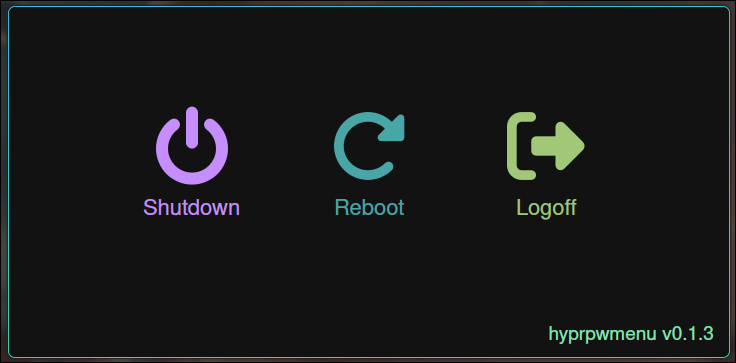
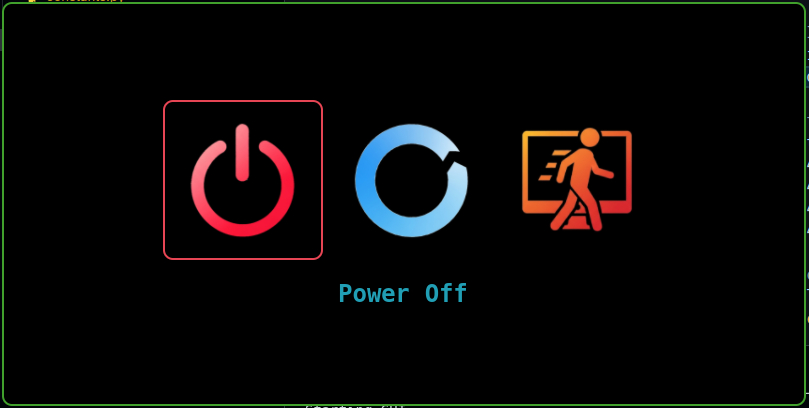
Update README and versioning; switch from PyQt6 to Gtk4, enhance configuration structure, and remove unused dependencies

diff --git a/src/hyprpwmenu/constants.py b/src/hyprpwmenu/constants.py
@@ -12,16 +12,13 @@ Constants:
     DEFAULT_STYLE_FILE (str): Default path for CSS style file
     SPACES_DEFAULT (int): Default spacing value for console output formatting
 
-Example:
-    >>> from hyprpwmenu.constants import APP_NAME, APP_VERSION
-    >>> print(f"{APP_NAME} v{APP_VERSION}")
-    hyprpwmenu v0.2.0
+
 """
 
 import os
 
 #: Current version of the HyprPwMenu application
-APP_VERSION = "0.2.0"
+APP_VERSION = "0.2.4"
 
 #: Application name used for configuration directories and identification
 APP_NAME = "hyprpwmenu"

diff --git a/README.md b/README.md
@@ -20,20 +20,9 @@ A modern and customizable power menu for [Hyprland](https://hyprland.org/https:/
 
 ## 📖 Overview
 
-**hyprpwmenu** provides a sleek graphical interface for system operations (_shutdown, reboot, and logoff_) in [Hyprland](https://hyprland.org/https:/) Wayland compositor. Built with Python and PyQt6, it offers extensive customization through configuration files and CSS styling.
+**hyprpwmenu** provides a sleek graphical interface for system operations (_shutdown, reboot, and logoff_) in [Hyprland](https://hyprland.org/https:/) Wayland compositor. Built with Python and Gtk4, it offers extensive customization through configuration files and CSS styling.
 
 ## Installation
-
-### Important
-
-Before continuing, write these rules in your Hyprland configuration file `hyprland.conf`.
-
-```ini
-# hyprpwmenu
-windowrulev2 = float,class:hyprpwmenu # necessary
-#windowrulev2 = fullscreen,class:hyprpwmenu # only if you want fullscreen
-windowrulev2 = size 720 250,class:hyprpwmenu
-```
 
 ### Install with pip
 
@@ -54,78 +43,141 @@ yay -S  hyprpwmenu
 ## 🛠 Usage
 
 ```bash
-hyprpwmenu [OPTIONS]
+$ hyprpwmenu
 ```
 
-### Command Line Options
-
-The following command-line options are available:
-
-| Option           | Argument | Description                                  | Default Value                      |
-| ---------------- | -------- | -------------------------------------------- | ---------------------------------- |
-| `-c`, `--config` | `FILE`   | Specifies the path to the`config.yaml` file. | `~/.config/hyprpwmenu/config.yaml` |
-| `-s`, `--style`  | `FILE`   | Specifies the path to the`style.css` file.   | `~/.config/hyprpwmenu/style.css`   |
-| `-h`, `--help`   |          | Show the help message and exit.              | N/A                                |
-
-If the specified configuration or style files don't exist at the provided paths (or the default paths), hyprpwmenu will attempt to create default versions.
+If the configuration or style files don't exist at the XDG_CONFIG_PATH (**/home/your_username/.config/hyprpwmenu**), **hyprpwmenu** will attempt to create default versions.
 
 ## ⚙ Configuration (`config.yaml`)
 
-**hyprpwmenu** uses a YAML configuration file (typically `~/.config/hyprpwmenu/config.yaml`) to define its behavior and the specifics of the power actions (shutdown, reboot and logoff).
+The behavior and appearance of hyprpwmenu is controlled via a YAML configuration file (default: `~/.config/hyprpwmenu/config.yaml`).
+
+### Configuration Structure
+
+The configuration file defines a list of buttons with their properties:
 
 ```yaml
-# This file is used to configure the hyprpwmenu
-# It is a YAML file, so make sure to follow the syntax rules
-# You can use comments in YAML files by starting a line with '#'
-
-# Shutdown icon and command
-# The icon is unicode for a Font Awesome icon,
-# you can find the list of icons here: https://fontawesome.com/icons/
-shutdown:
-  icon: "\uf011"
-  command: "poweroff" # Command to execute when the shutdown icon is clicked
-
-# Reboot icon and command
-reboot:
-  icon: "\uf2f9"
-  command: "reboot" # Command to execute when the reboot icon is clicked
-
-# Logoff icon and command
-logoff:
-  icon: "\uf2f5"
-  command: "hyprctl dispatch exit" # Command to execute when the logout icon is clicked
+buttons:
+  - icon_path: "/path/to/icon.png" # Path to PNG icon file
+    id: "buttonId" # CSS identifier for styling
+    hint: "Tooltip text" # Text shown on hover
+    command: "system_command" # Command executed when clicked
 ```
 
-Please refer to the default generated `config.yaml` or the application's source code for the definitive structure and available options.
+### Button Properties
+
+Each button supports the following properties:
+
+- **`icon_path`** (string): Absolute path to a PNG image file used as the button icon
+- **`id`** (string): Unique identifier used for CSS styling and element identification
+- **`hint`** (string): Text displayed as tooltip when user hovers over the button
+- **`command`** (string): Shell command that will be executed when the button is clicked
+
+### Default Configuration
+
+The default configuration includes three standard power menu actions:
+
+- **Power Off**: Executes `poweroff` command
+- **Restart**: Executes `reboot` command
+- **Logout**: Executes `hyprctl dispatch exit` for Hyprland session exit
+
+### Custom Commands
+
+You can customize the commands to suit your system setup. For example:
+
+- Use `systemctl poweroff` instead of `poweroff`
+- Add custom scripts: `/path/to/custom/script.sh`
+- Use different logout commands for other window managers
+
+If the configuration file doesn't exist, hyprpwmenu will create a default version automatically.
 
 ## 🎨 Styling (`style.css`)
 
 The visual appearance of hyprpwmenu is controlled via a CSS file (default: `~/.config/hyprpwmenu/style.css`).
 
-Key customizable elements via CSS include:
+### Key Customizable Elements
 
-- **`QWidget`**: Styles the main application window background.
-  - Default: Dark grey (`#020f18`).
-- **`QToolButton`**: Base style for all action buttons (Shutdown, Reboot, Logoff).
-  - Default: Transparent background, no initial border, rounded corners (`15px`), fixed size (`100x100px`), padding (`15px`).
-- **`QToolButton#<name>Button`**: Specific styling for individual buttons (e.g., `QToolButton#shutdownButton`).
-  - Default: Sets the primary color for the button's text and icon.
-- **`QToolButton QLabel#icon<name>Button`**: Styles the icon within a specific button.
-  - Default: Uses Font Awesome 6 Free font, large size (`84px`), specific color matching the button's theme.
-- **`QToolButton QLabel#text<name>Button`**: Styles the text label within a specific button.
-  - Default: Arial font, `22px` size, specific color matching the button's theme.
-- **`QToolButton#<name>Button:focus`**: Styles applied when a button receives focus (e.g., via keyboard navigation).
-  - Default: Adds a `2px` solid border using the button's specific color.
-- **`#app_info_label`**: Styles the label displaying the application name and version.
-  - Default: Greenish color (`#81E7AF`), `14pt` size, padding.
+#### **Window Container**
 
-Default Theme Colors:
+- **`window`**: Styles the main application window
+  - Background color, border styling, border radius
+  - Minimum dimensions (width/height)
+  - Default: Black background (`#000000`) with green border (`#40a02b`)
 
-- Shutdown: Purple (`#C68EFD`)
-- Reboot: Teal (`#48A6A7`)
-- Logoff: Green (`#A0C878`)
+#### **Button Base Styling**
 
-You can modify the default `style.css` or provide your own using the `-s` command-line option to completely change the appearance.
+- **`button`**: Base style for all action buttons
+  - Background, border, padding, dimensions
+  - Border radius for rounded corners
+  - Default: Black background, no border, `120x120px` minimum size, `10px` border radius
+
+#### **Button Interaction States**
+
+Individual buttons have specific styling for hover, active, focus, and checked states:
+
+- **`button#buttonPowerOff`**: Power off button interactions
+  - Default: Red border (`#e64553`) on interaction
+- **`button#buttonRestart`**: Restart button interactions
+  - Default: Blue border (`#04a5e5`) on interaction
+- **`button#buttonLogout`**: Logout button interactions
+  - Default: Orange border (`#df8e1d`) on interaction
+
+#### **Button Icons**
+
+- **`button image`**: Styles the icon images within buttons
+  - Background color matching the window theme
+
+#### **Hint Label**
+
+- **`label#hint_label`**: Styles the tooltip/hint text display
+  - Font family, color, size, weight, and positioning
+  - Default: "Hack Nerd Font Mono", cyan color (`#209fb5`), `24px` size
+
+### Default Color Scheme
+
+The default theme uses a dark color palette:
+
+- **Background**: Black (`#000000`)
+- **Window Border**: Green (`#40a02b`)
+- **Power Off**: Red (`#e64553`)
+- **Restart**: Blue (`#04a5e5`)
+- **Logout**: Orange (`#df8e1d`)
+- **Hint Text**: Cyan (`#209fb5`)
+
+### Custom Styling
+
+You can completely customize the appearance by:
+
+1. Modifying the default `~/.config/hyprpwmenu/style.css`
+2. Using the `-s` command-line option to specify a custom CSS file
+3. Adjusting colors, fonts, sizes, borders, and animations
+
+The CSS follows standard GTK4 styling conventions, allowing for extensive customization of the user interface.
+
+## 🔤 Keyboard Navigation
+
+hyprpwmenu block keyboard when execute and only release after the user choose one button (action) or quit hyprpwmenu.
+The app supports keyboard navigation for quick access without using the mouse:
+
+### Navigation
+
+- **Right Arrow (→)**: Select the next button
+- **Left Arrow (←)**: Select the previous button
+- **Enter**: Execute the command of the currently selected button
+- **q** or **ESC**: Quit application
+
+### Usage Tips
+
+- Use the arrow keys to cycle through available power menu options
+- The currently selected button will be highlighted with a colored border
+- Press Enter to confirm and execute the selected action
+- You can quickly navigate and execute commands using only the keyboard
+
+This keyboard navigation makes hyprpwmenu accessible and efficient for power users who prefer keyboard shortcuts over mouse interaction.
+
+hyprpwmenu supports keyboard navigation for quick access without using the mouse:
+
+This keyboard navigation makes hyprpwmenu accessible and efficient for power users who prefer keyboard shortcuts over mouse interaction.
 
 ## 🔗 Integration with Hyprland
 
